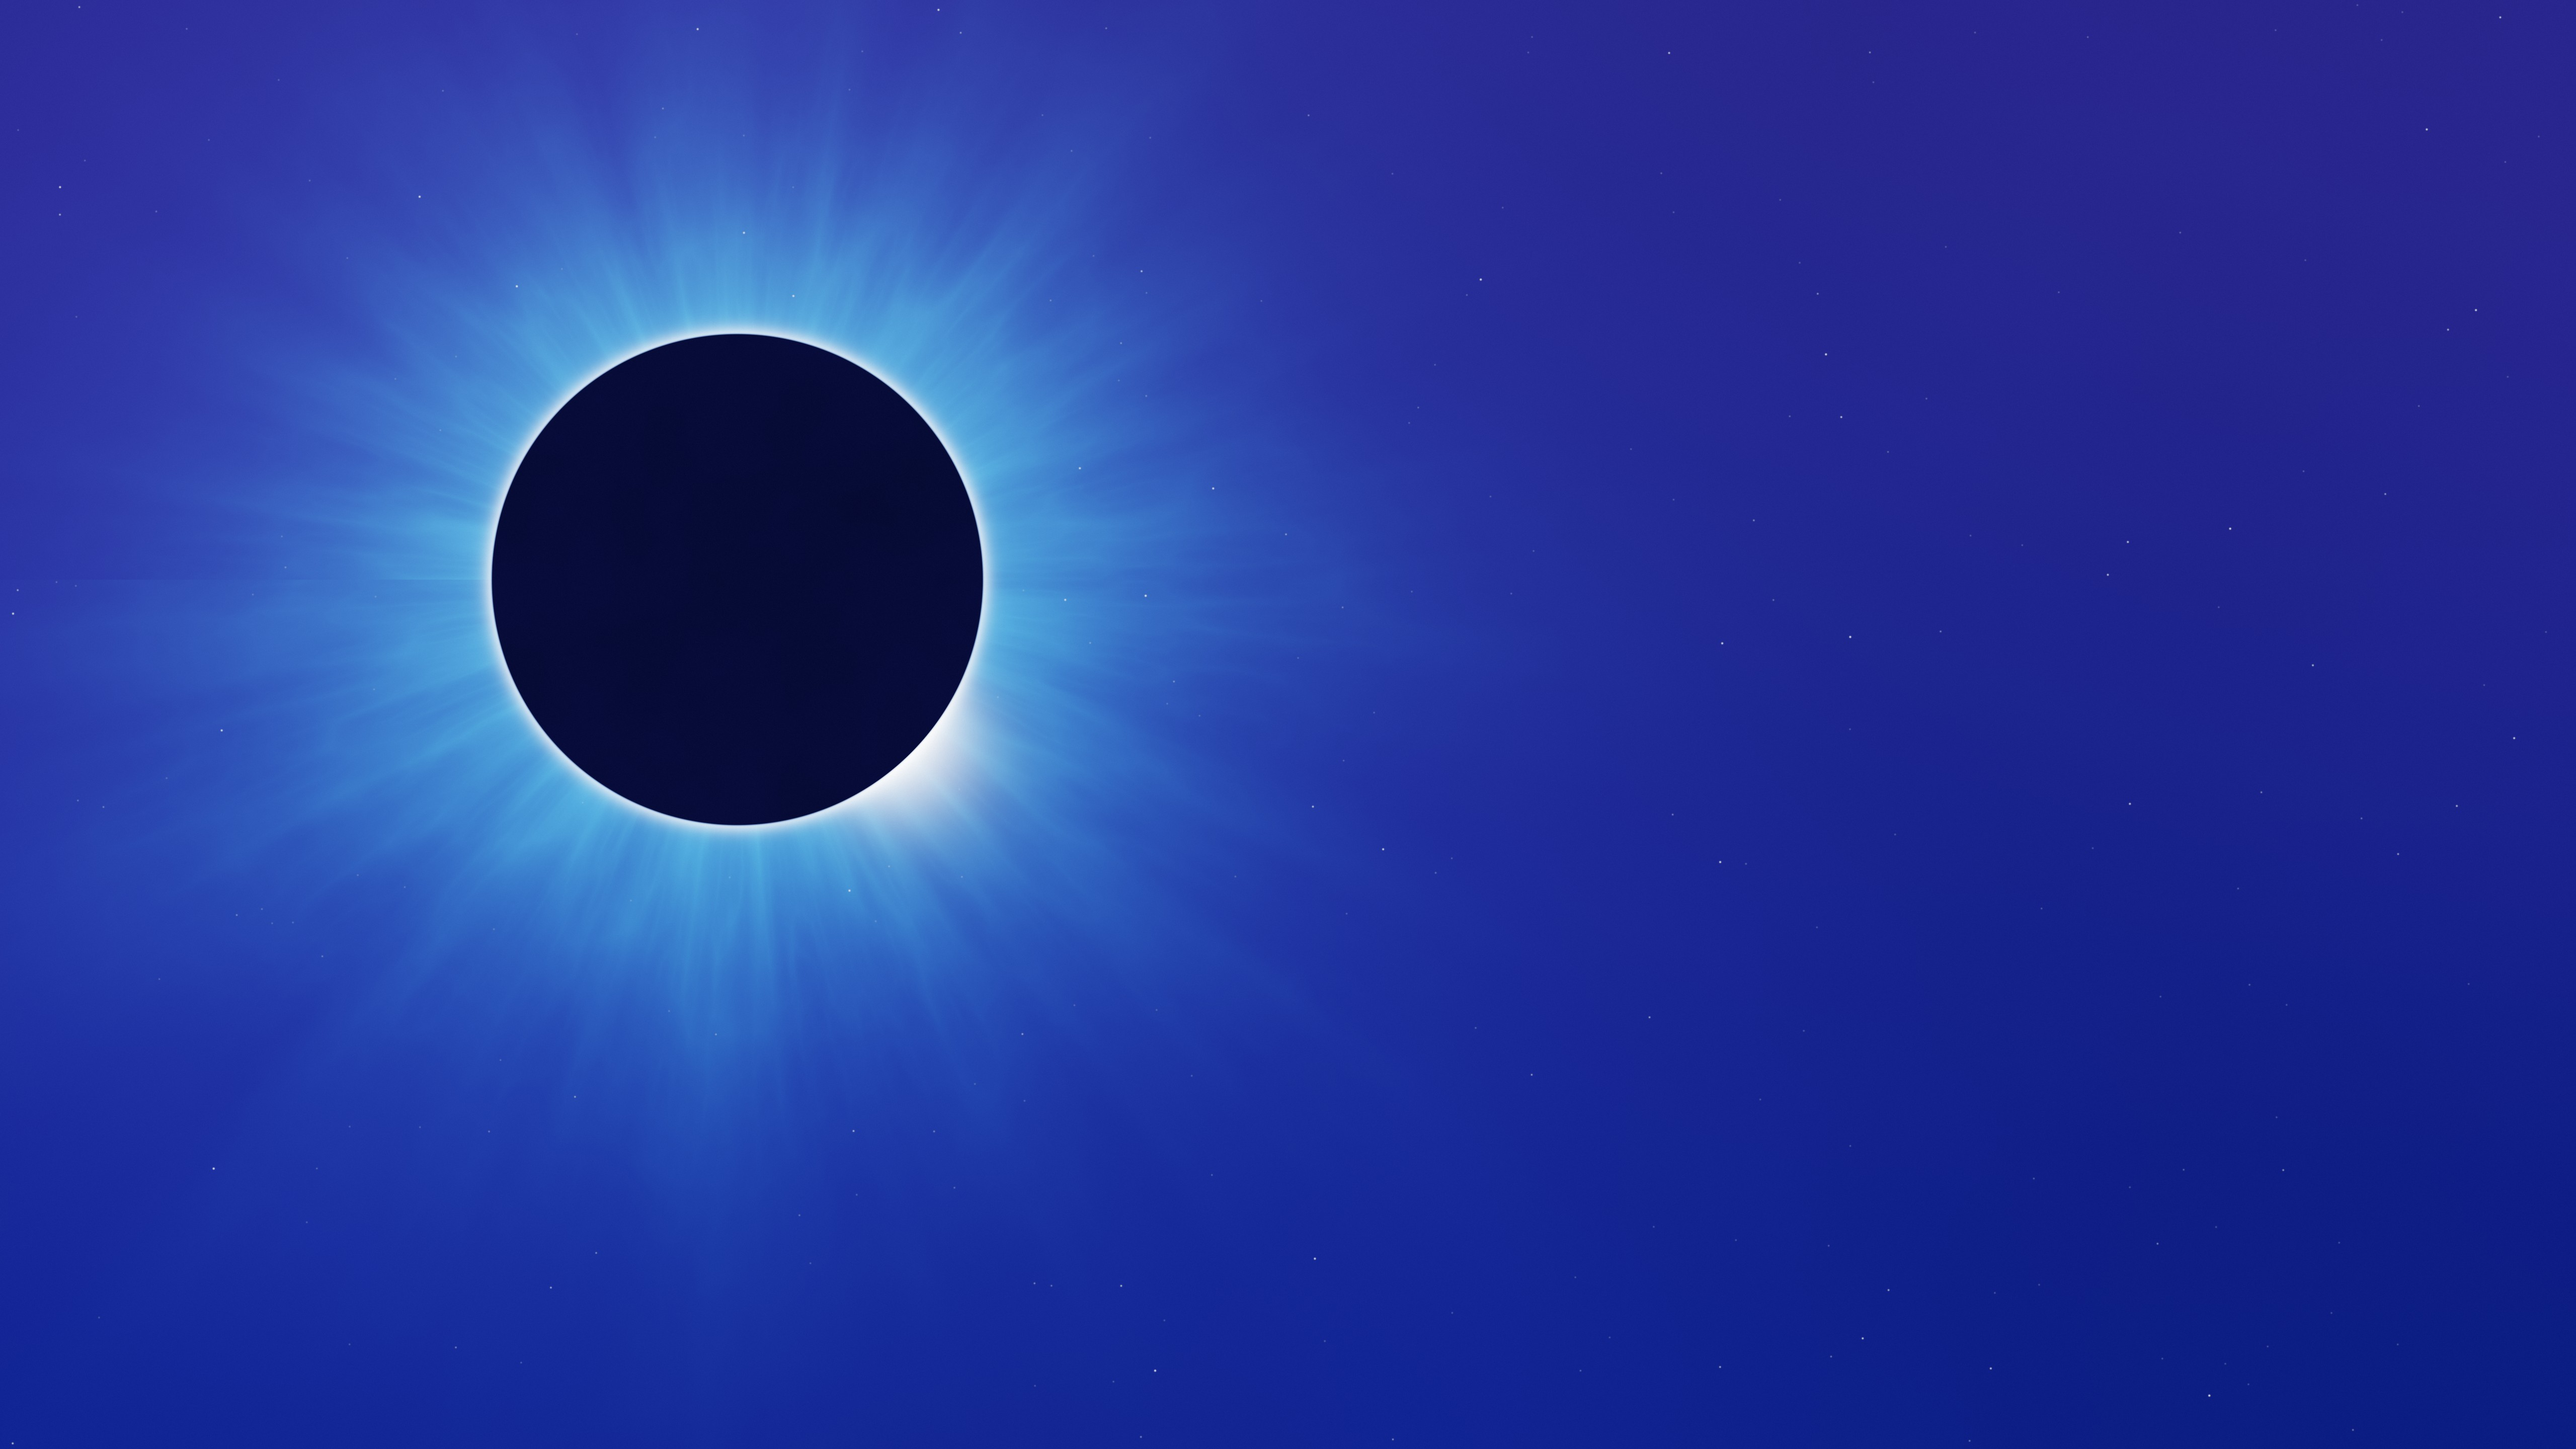
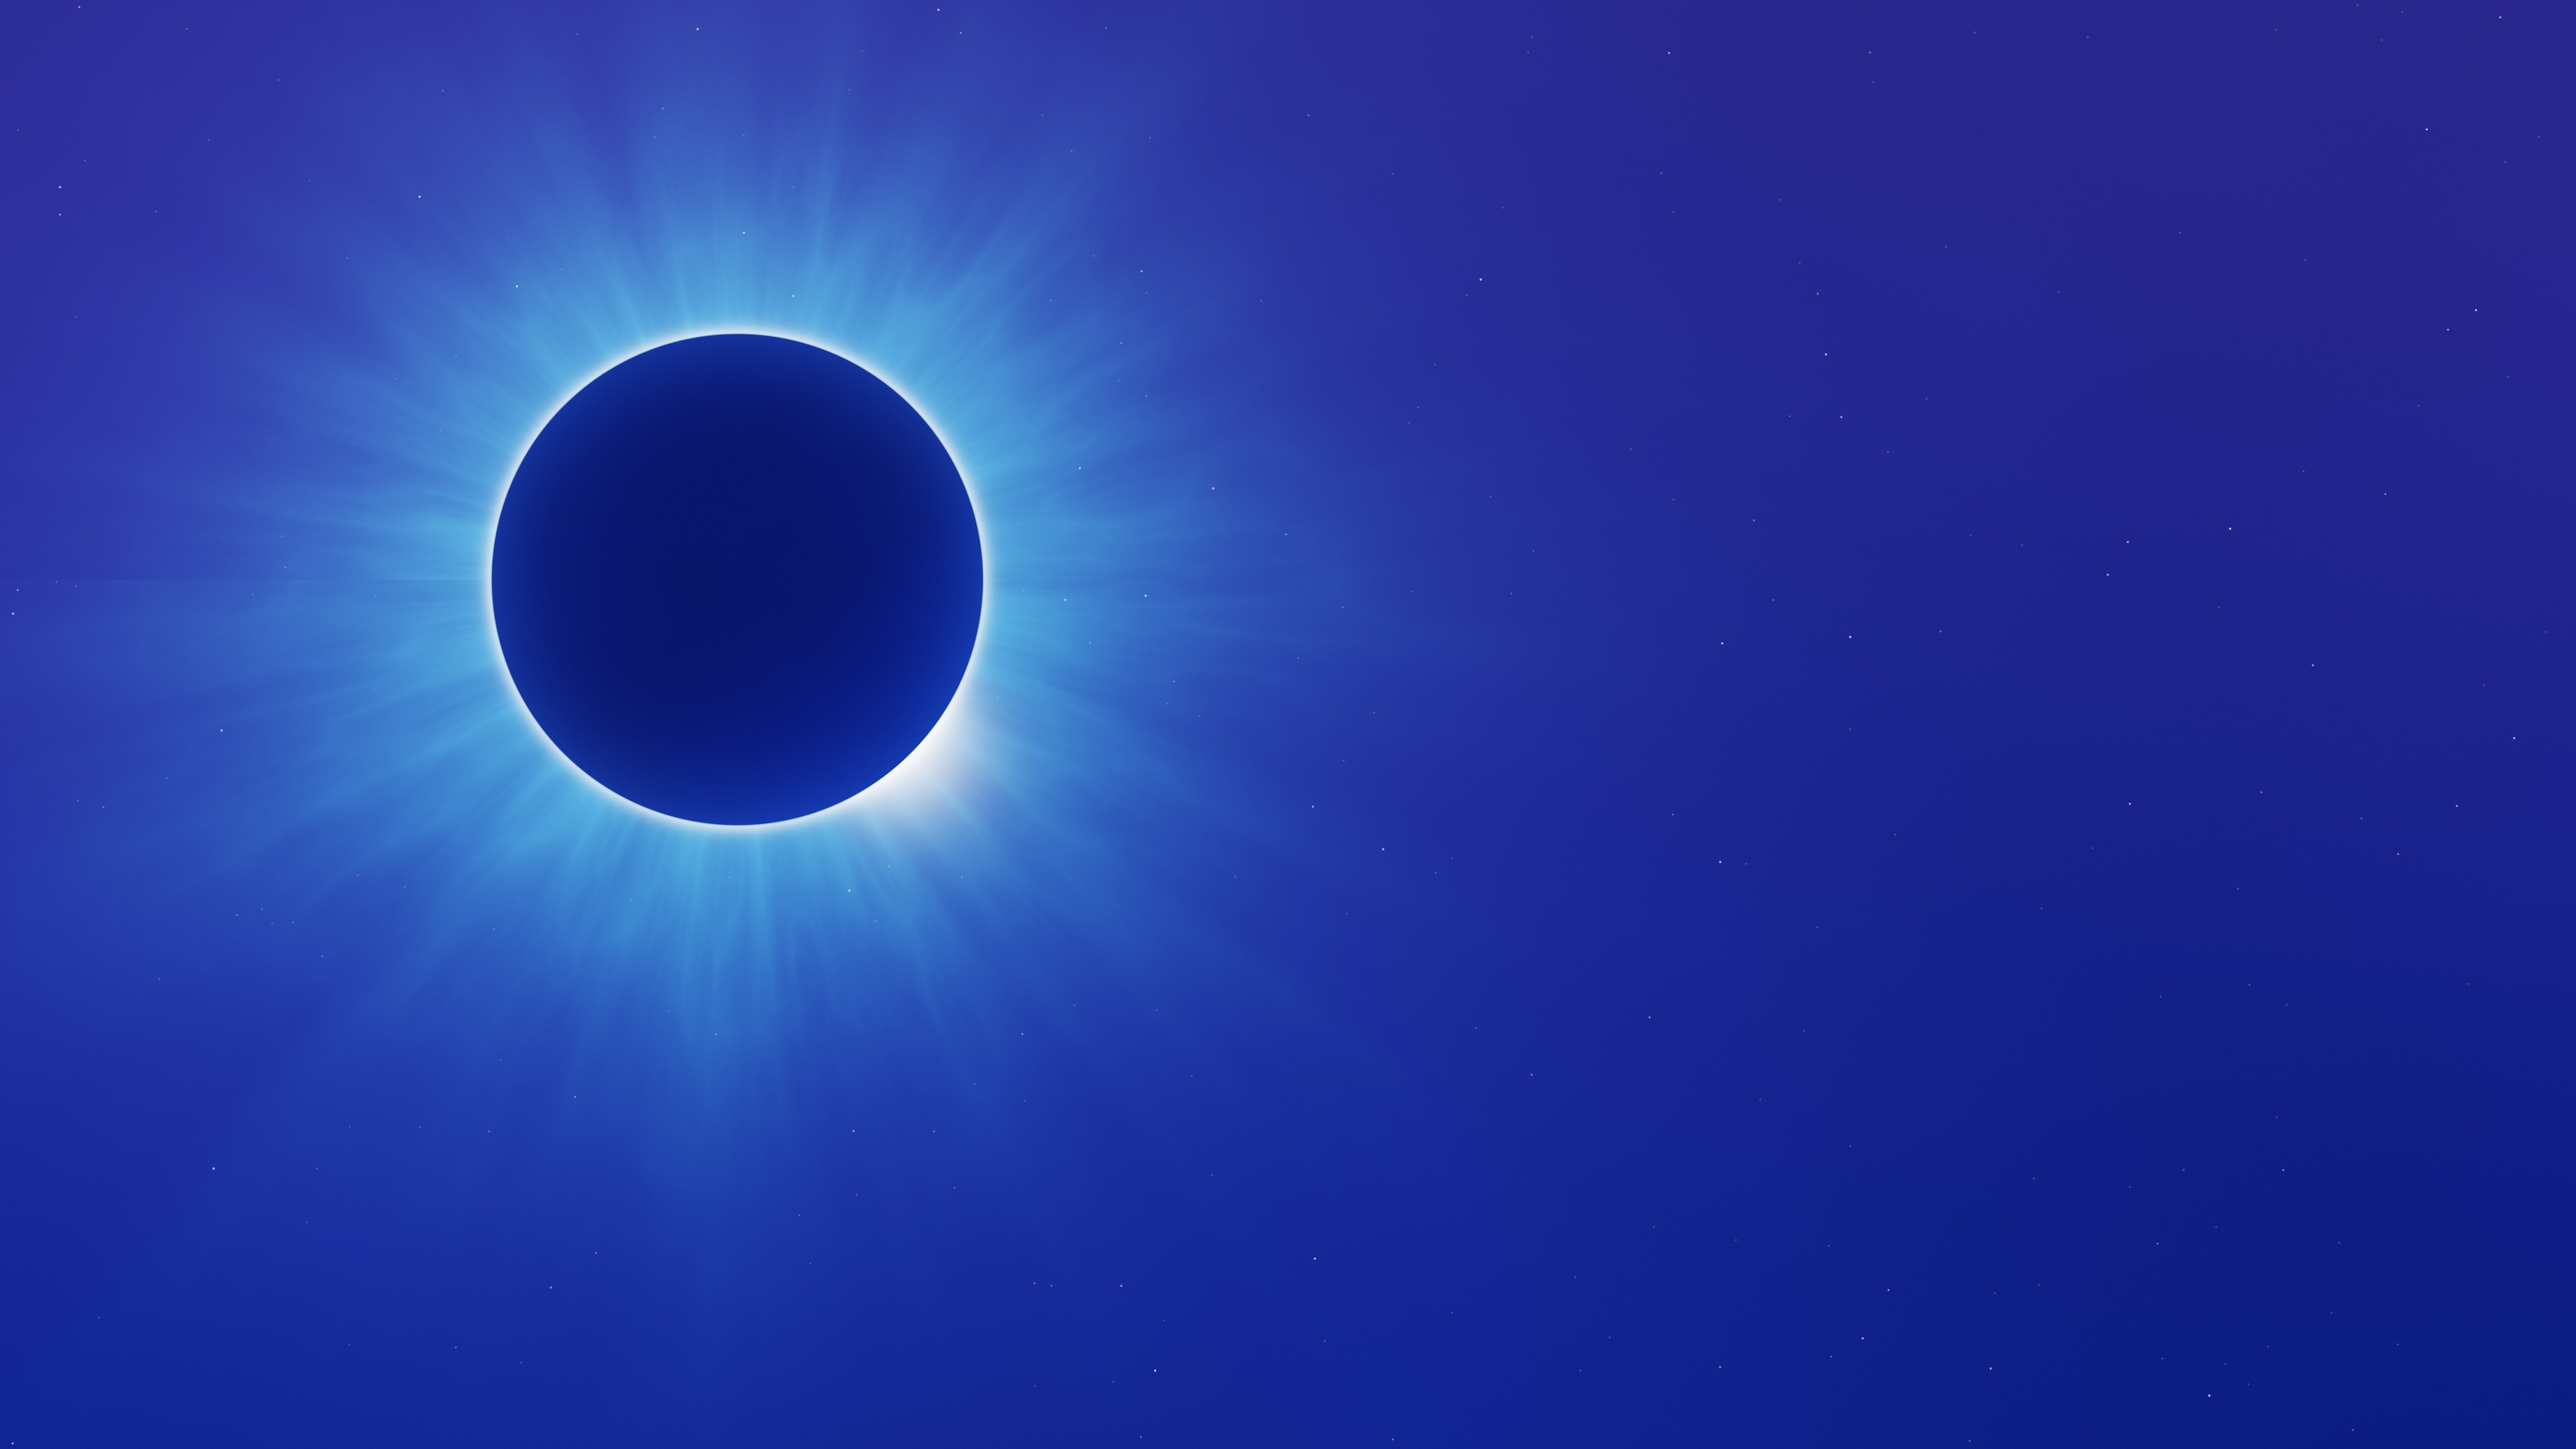
Eclipse wallpaper: a deep blue planet instead of a black disc
Claude-Session: https://claude.ai/code/session_01MxskLFrUPDobZtnV9JkPjx

Changed region(s): [[0.1875, 0.2188, 0.4062, 0.5938]]

diff --git a/branding/README.md b/branding/README.md
@@ -47,7 +47,7 @@ All 5120x2880, in `system_files/usr/share/backgrounds/cosmic-blue/`:
   default COSMIC wallpaper and the greeter background
 - `cosmic-blue-deep-spiral.jpg`: a flat illustration, a calm night-blue field
   with a large tone-on-tone spiral and small round stars, offered in Settings
-- `cosmic-blue-eclipse.jpg`: a dark planet in front of its star, ringed with
+- `cosmic-blue-eclipse.jpg`: a deep blue planet in front of its star, ringed with
   blue light and soft rays, offered in Settings
 - `cosmic-blue-galaxy.jpg`: a tilted spiral galaxy, offered in Settings
 - `cosmic-blue-galactic-river.jpg`: a diagonal river of stars and gas, offered in
